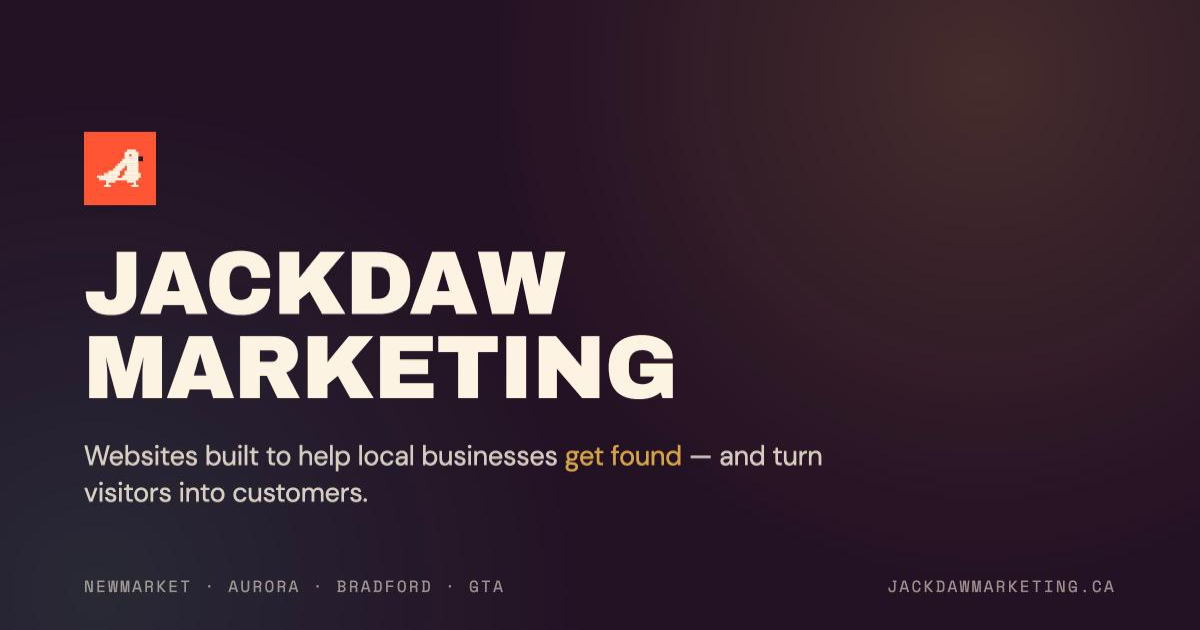
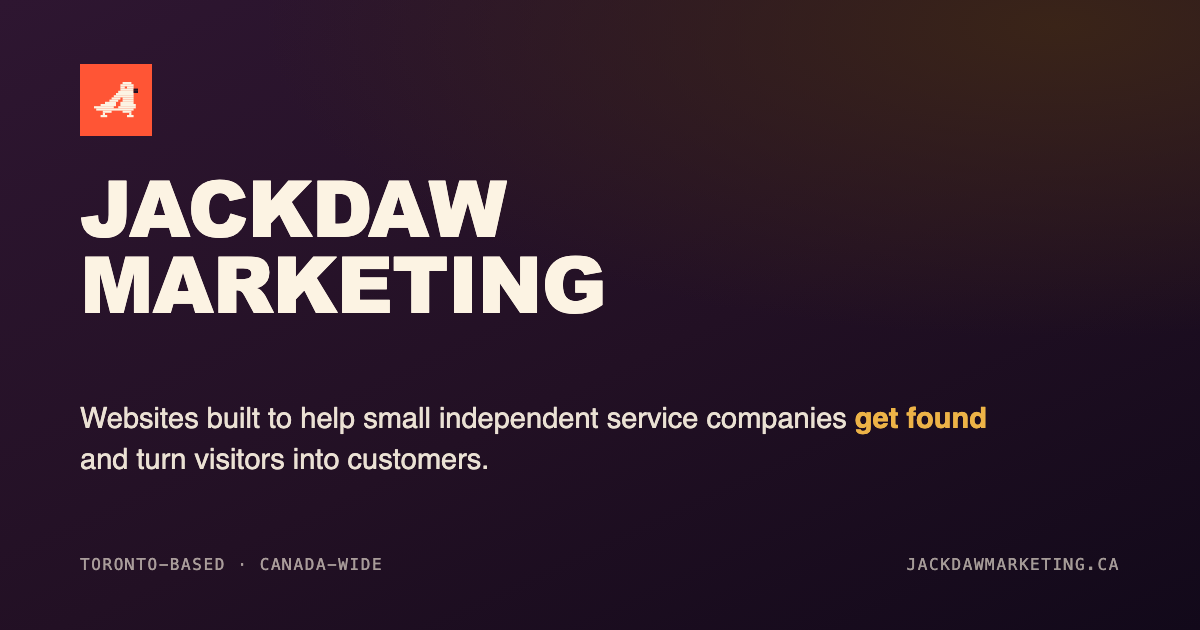
Reposition site as Canada-wide, rebuild stale og.png share image
Drop the York Region/GTA-only framing across the homepage, pricing page,
and structured data: hero pitch, meta/OG/Twitter descriptions, and
JSON-LD areaServed now say Canada instead of listing Newmarket, Aurora,
Bradford and the GTA. "Based in" now reads Toronto, ON.

Rebuilt og.png (the actual share-card image, not just the meta tags
pointing to it) which had drifted out of sync with recent copy fixes:
it still listed the old GTA-only service area and had an em dash. New
version matches the site's fonts/colors, reads "Toronto-based Canada-
wide", and drops the dash. Also added og:image:type to the three main
pages for stricter parsers like LinkedIn.

diff --git a/index.html b/index.html
@@ -12,24 +12,25 @@
 
   gtag('config', 'G-7NPP9DSENG');
 </script>
-<title>Jackdaw Marketing: Web Design & Marketing, Newmarket & GTA</title>
-<meta name="description" content="JackDaw Marketing designs, builds and optimizes fast, modern websites that help local businesses in Newmarket, Aurora, Bradford and the GTA get found and turn visitors into customers.">
+<title>Jackdaw Marketing: Web Design for Service Businesses in Canada</title>
+<meta name="description" content="JackDaw Marketing designs, builds and optimizes fast, modern websites that help small independent service companies across Canada get found and turn visitors into customers.">
 <link rel="icon" type="image/svg+xml" href="/favicon.svg">
 <link rel="canonical" href="https://jackdawmarketing.ca/">
 <meta name="theme-color" content="#221024">
 <meta property="og:type" content="website">
 <meta property="og:url" content="https://jackdawmarketing.ca/">
 <meta property="og:site_name" content="JackDaw Marketing">
-<meta property="og:title" content="Jackdaw Marketing: Web Design & Marketing, Newmarket & GTA">
-<meta property="og:description" content="Fast, modern websites that help local businesses in Newmarket, Aurora, Bradford and the GTA get found and turn visitors into customers.">
+<meta property="og:title" content="Jackdaw Marketing: Web Design for Service Businesses in Canada">
+<meta property="og:description" content="Fast, modern websites that help small independent service companies across Canada get found and turn visitors into customers.">
 <meta property="og:image" content="https://jackdawmarketing.ca/og.png">
 <meta property="og:image:width" content="1200">
 <meta property="og:image:height" content="630">
+<meta property="og:image:type" content="image/png">
 <meta property="og:image:alt" content="Jackdaw Marketing">
 <meta property="og:locale" content="en_CA">
 <meta name="twitter:card" content="summary_large_image">
-<meta name="twitter:title" content="Jackdaw Marketing: Web Design & Marketing, Newmarket & GTA">
-<meta name="twitter:description" content="Fast, modern websites that help local businesses in Newmarket, Aurora, Bradford and the GTA get found and turn visitors into customers.">
+<meta name="twitter:title" content="Jackdaw Marketing: Web Design for Service Businesses in Canada">
+<meta name="twitter:description" content="Fast, modern websites that help small independent service companies across Canada get found and turn visitors into customers.">
 <meta name="twitter:image" content="https://jackdawmarketing.ca/og.png">
 <script type="application/ld+json">
 {
@@ -41,17 +42,10 @@
   "email":"jack@jackdawmarketing.ca",
   "image":"https://jackdawmarketing.ca/og.png",
   "priceRange":"$$",
-  "description":"Websites designed, built and optimized to help local businesses get found and turn visitors into customers.",
+  "description":"Websites designed, built and optimized to help small independent service companies get found and turn visitors into customers.",
   "founder":{"@type":"Person","name":"Jack"},
-  "address":{"@type":"PostalAddress","addressLocality":"Newmarket","addressRegion":"ON","addressCountry":"CA"},
-  "areaServed":[
-    {"@type":"City","name":"Newmarket"},
-    {"@type":"City","name":"Aurora"},
-    {"@type":"City","name":"Bradford West Gwillimbury"},
-    {"@type":"City","name":"East Gwillimbury"},
-    {"@type":"City","name":"Toronto"},
-    {"@type":"AdministrativeArea","name":"Greater Toronto Area"}
-  ],
+  "address":{"@type":"PostalAddress","addressLocality":"Toronto","addressRegion":"ON","addressCountry":"CA"},
+  "areaServed":{"@type":"Country","name":"Canada"},
   "knowsAbout":["Web design","Web development","Search engine optimization","Brand identity"]
 }
 </script>
@@ -407,7 +401,7 @@
 
     <div class="pitch">
       <h1>Websites that make local businesses <em class="tomato">easier to find</em>, <em class="marigold">easier to trust</em>, and <em class="jade">easier to choose</em>.</h1>
-      <p class="sub">I design, build and manage fast, modern websites for businesses in Newmarket, Aurora, Bradford and across the GTA.</p>
+      <p class="sub">I design, build and manage fast, modern websites for small independent service companies across Canada.</p>
       <p class="secondary">One person from strategy to launch, no agency handoffs.</p>
       <div class="actions">
         <a href="#work" class="btn solid">See the builds</a>
@@ -483,8 +477,8 @@
         <p>Tell me a bit about the project and I'll reply within one business day with next steps. No sales call required first.</p>
         <div class="contact-meta">
           <div><b>Reply time</b><span>1 business day</span></div>
-          <div><b>Based in</b><span>Newmarket, ON</span></div>
-          <div><b>Serving</b><span>Newmarket · Aurora · Bradford · GTA</span></div>
+          <div><b>Based in</b><span>Toronto, ON</span></div>
+          <div><b>Serving</b><span>Canada-wide</span></div>
         </div>
       </div>
       <form class="contact-form rev" name="contact" method="POST" data-netlify="true" netlify-honeypot="bot-field" action="/thank-you">

diff --git a/pricing/index.html b/pricing/index.html
@@ -25,6 +25,7 @@
 <meta property="og:image" content="https://jackdawmarketing.ca/og.png">
 <meta property="og:image:width" content="1200">
 <meta property="og:image:height" content="630">
+<meta property="og:image:type" content="image/png">
 <meta property="og:image:alt" content="Jackdaw Marketing">
 <meta property="og:locale" content="en_CA">
 <meta name="twitter:card" content="summary_large_image">
@@ -48,7 +49,7 @@
     "@type":"Service",
     "name":"Website Plan",
     "provider":{"@id":"https://jackdawmarketing.ca/#organization"},
-    "areaServed":"Greater Toronto Area",
+    "areaServed":"Canada",
     "description":"A professionally built, custom website with hosting, maintenance, essential on-page SEO and ongoing support.",
     "offers":{
       "@type":"Offer",
@@ -63,7 +64,7 @@
     "@type":"Service",
     "name":"Growth Plan",
     "provider":{"@id":"https://jackdawmarketing.ca/#organization"},
-    "areaServed":"Greater Toronto Area",
+    "areaServed":"Canada",
     "description":"Everything in the Website plan, plus Google Ads management, local SEO strategy and ongoing growth-focused marketing.",
     "offers":{
       "@type":"Offer",

diff --git a/why/index.html b/why/index.html
@@ -25,6 +25,7 @@
 <meta property="og:image" content="https://jackdawmarketing.ca/og.png">
 <meta property="og:image:width" content="1200">
 <meta property="og:image:height" content="630">
+<meta property="og:image:type" content="image/png">
 <meta property="og:image:alt" content="Jackdaw Marketing">
 <meta property="og:locale" content="en_CA">
 <meta name="twitter:card" content="summary_large_image">
